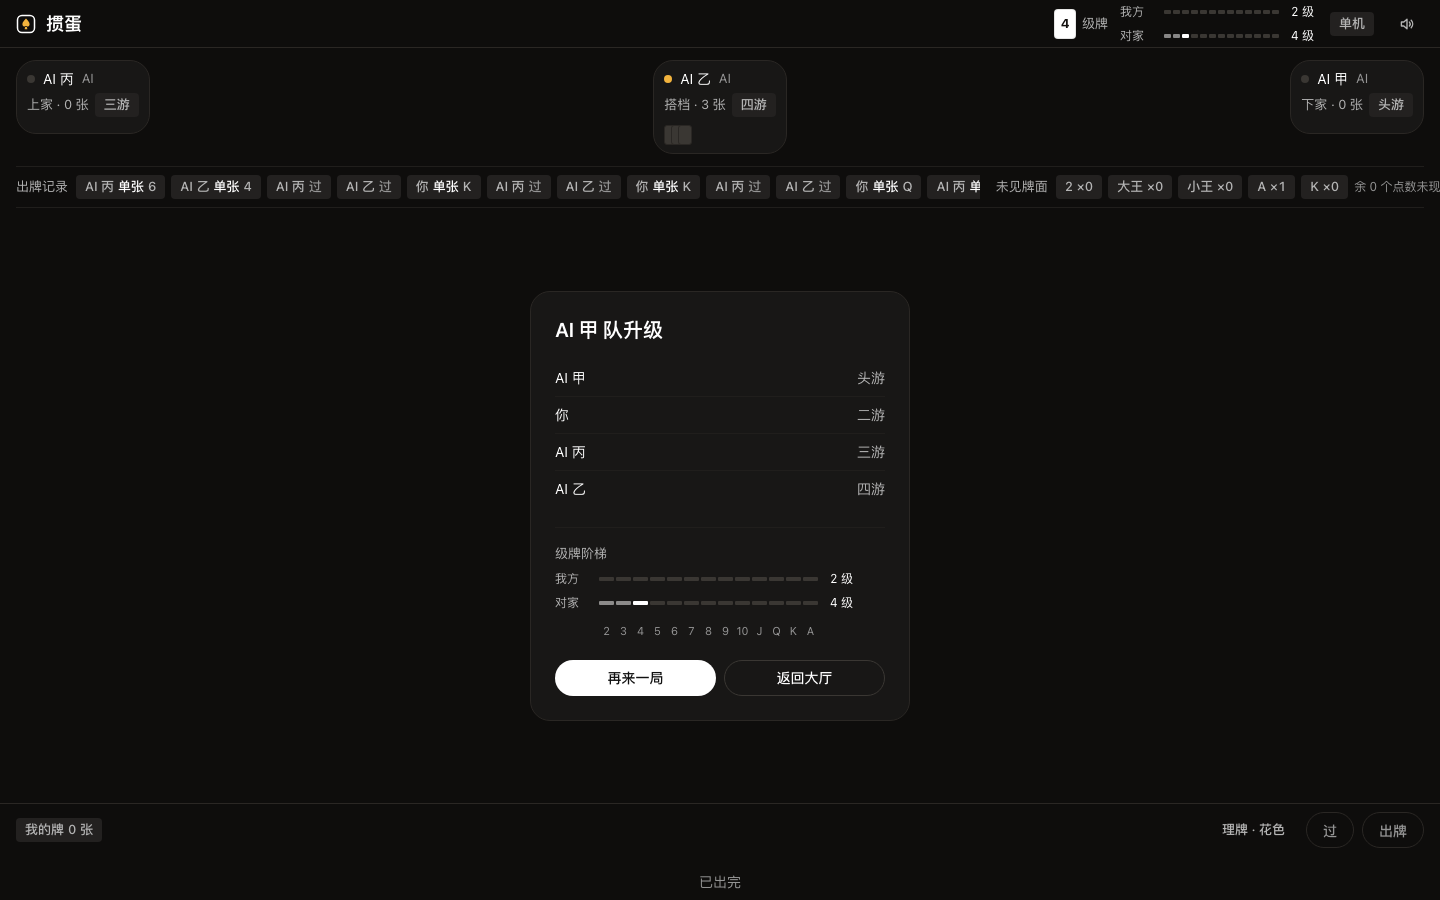
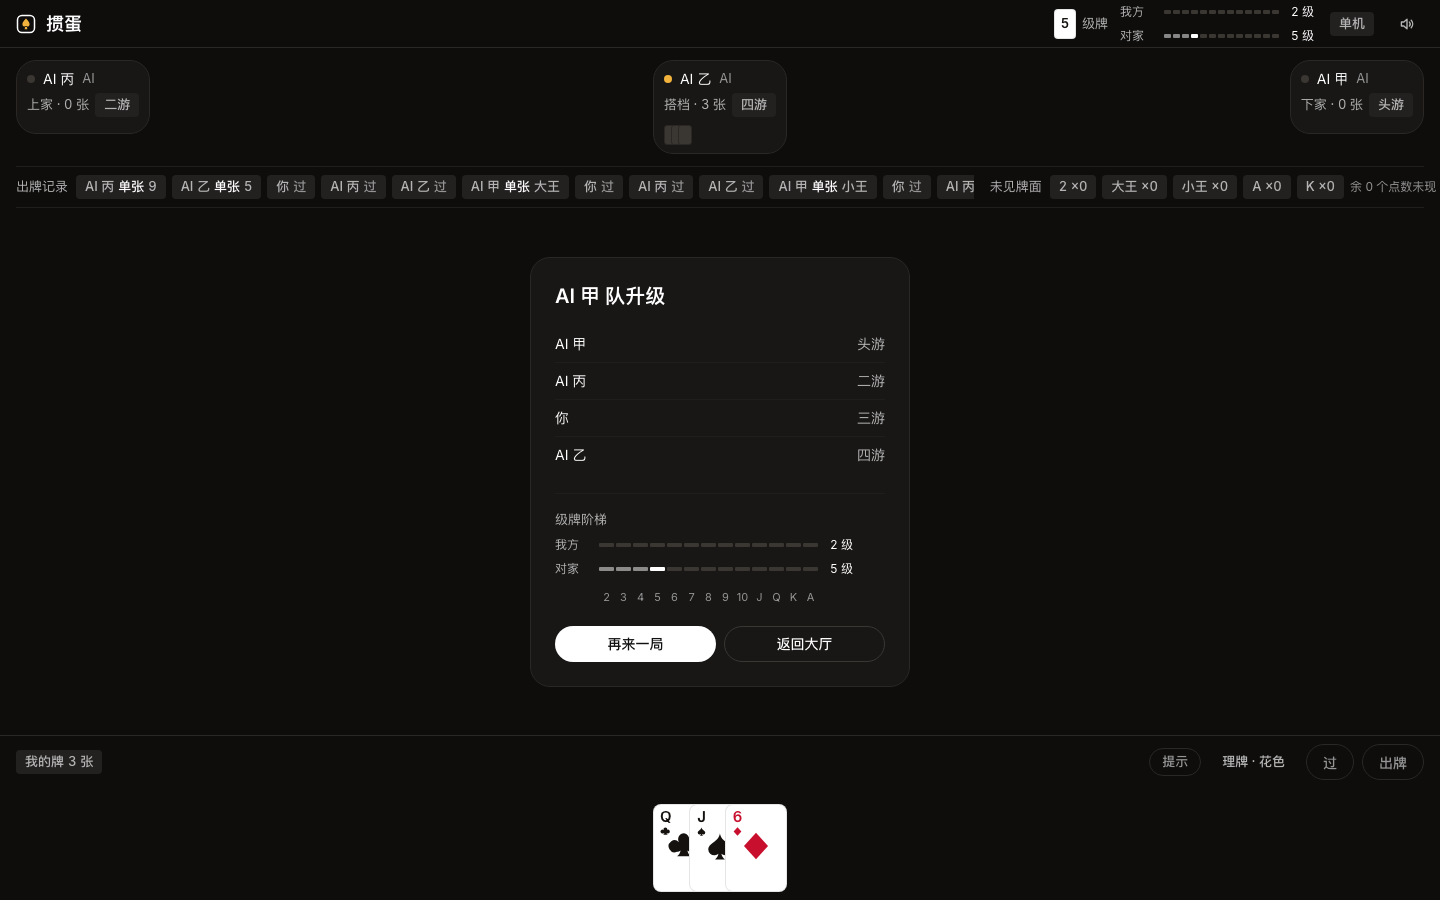
feat(core): AI 代价制策略升级 + 牌桌「提示」
ai.ts 从 20 行占位升级为代价制策略：
- 领出按「牌值 + 牌型偏好 + 拆牌惩罚」取最小代价组合（顺子 > 对子 > 单张，
  保留炸弹/三张/对子结构）
- 跟牌能小压就小压；拆牌代价过高就过；只留炸弹能压且对手还早 → 留炸
- 炸弹只在对手只剩 1-2 张时动；好 2 不赢：单张/一对 2 留到最后

新增 6 条 TDD 用例覆盖以上策略（领出优先对子与顺子、不拆炸弹、
炸弹留后手、好 2 不赢、跟牌不拆炸弹）。

牌桌加「提示」按钮：调用同一套 aiMove 替我选好牌，并给一句建议
（「建议：三张 4」），直接按出牌即可；局面一变提示自动过期。

另加真浏览器验收脚本 scripts/smoke-ui.mjs 与 scripts/smoke-p2p.mjs，
覆盖 理牌切换 / 出牌 / AI 接牌 / 提示 / 双标签页 P2P 同步。

72 tests 全绿，tsc -b、oxlint、build 通过。

diff --git a/src/core/ai.ts b/src/core/ai.ts
@@ -1,20 +1,112 @@
 import { teamOf, legalMoves } from './engine'
 import type { Action, GameState, Seat } from './engine'
+import { ComboType } from './combos'
+import type { Combo } from './combos'
+import type { Card } from './cards'
 
-const Special = { BOMB: 7, SFLUSH: 8, JOKERS: 9 } as const
+const SPECIAL = new Set<number>([ComboType.BOMB, ComboType.SFLUSH, ComboType.JOKERS])
 
+/** 领出时各牌型的偏好：越负越愿意出这张牌。 */
+const LEAD_BONUS: Record<number, number> = {
+  [ComboType.SINGLE]: 40,
+  [ComboType.PAIR]: 10,
+  [ComboType.TRIPLE]: 0,
+  [ComboType.TRIPLE_PAIR]: 5,
+  [ComboType.STRAIGHT]: -10,
+  [ComboType.PAIRS]: 0,
+  [ComboType.PLATE]: 0,
+  [ComboType.BOMB]: 2000,
+  [ComboType.SFLUSH]: 2000,
+  [ComboType.JOKERS]: 5000,
+}
+
+/** 炸弹 / 同花顺 / 天炸在跟牌时的额外代价：默认留着当后手。 */
+const SPECIAL_FOLLOW_COST = 300
+
+/** 手牌里每个点数有几张。 */
+function handShape(hand: Card[]): Map<number, number> {
+  const shape = new Map<number, number>()
+  for (const c of hand) shape.set(c.rank, (shape.get(c.rank) ?? 0) + 1)
+  return shape
+}
+
+/** 拆牌惩罚：拆炸弹最贵，拆三张次之，拆对子最轻。 */
+function breakPenalty(combo: Combo, shape: Map<number, number>): number {
+  const used = new Map<number, number>()
+  for (const c of combo.cards) used.set(c.rank, (used.get(c.rank) ?? 0) + 1)
+  let penalty = 0
+  for (const [rank, n] of used) {
+    const total = shape.get(rank) ?? n
+    if (n >= total) continue
+    if (total >= 4) penalty += 150
+    else if (total === 3) penalty += 30
+    else if (total === 2) penalty += 10
+  }
+  return penalty
+}
+
+/** 打出的牌值多少点——大牌更贵。 */
+function valueOf(cards: Card[]): number {
+  return cards.reduce((sum, c) => sum + c.rank, 0)
+}
+
+function pickCheapest(moves: Combo[], shape: Map<number, number>, lead: boolean): Combo | null {
+  let best: Combo | null = null
+  let bestCost = Infinity
+  for (const m of moves) {
+    const cost =
+      valueOf(m.cards) +
+      (lead ? (LEAD_BONUS[m.type] ?? 0) : SPECIAL.has(m.type) ? SPECIAL_FOLLOW_COST : 0) +
+      breakPenalty(m, shape)
+    if (cost < bestCost || (cost === bestCost && best !== null && m.rank < best.rank)) {
+      best = m
+      bestCost = cost
+    }
+  }
+  return best
+}
+
+/**
+ * AI 走子：
+ * - 领出：代价最小的组合（顺子/对子优先，保留炸弹与三张结构）
+ * - 跟牌：能小压就小压；拆牌代价过高就过
+ * - 炸弹：对手只剩 1-2 张时才动
+ * - 好 2 不赢：单张 2 留到最后
+ */
 export function aiMove(st: GameState, seat: Seat): Action {
   if (st.phase !== 'playing' || st.turn !== seat) return { kind: 'pass', seat }
   const moves = legalMoves(st, seat)
+  if (moves.length === 0) return { kind: 'pass', seat }
+
   const table = st.trick.table
+  const hand = st.players[seat]!.hand
+  const shape = handShape(hand)
+  const mine = teamOf(seat)
+  const oppMin = Math.min(
+    ...st.players.filter((p) => teamOf(p.seat) !== mine).map((p) => p.hand.length),
+  )
+  // 紧急：对手只剩 1-2 张（要抢头游），或我只剩一张（必须打完）
+  const urgent = oppMin <= 2 || hand.length <= 1
+
   if (!table) {
-    return { kind: 'play', seat, cards: moves[0]!.cards.map((c) => c.id) }
+    const best = pickCheapest(moves, shape, true)
+    if (!best) return { kind: 'pass', seat }
+    return { kind: 'play', seat, cards: best.cards.map((c) => c.id) }
   }
-  if (teamOf(table.seat) === teamOf(seat)) {
+
+  // 队友坐庄 → 让他打
+  if (teamOf(table.seat) === mine) return { kind: 'pass', seat }
+
+  const best = pickCheapest(moves, shape, false)
+  if (!best) return { kind: 'pass', seat }
+
+  // 只剩炸弹能压，而对手还早 → 留着当后手
+  if (SPECIAL.has(best.type) && !urgent) return { kind: 'pass', seat }
+
+  // 好 2 不赢：单张 / 一对 2 留到最后打
+  if (!urgent && best.rank === 18 && (best.type === ComboType.SINGLE || best.type === ComboType.PAIR)) {
     return { kind: 'pass', seat }
   }
-  const plain = moves.filter((m) => m.type !== Special.BOMB && m.type !== Special.SFLUSH && m.type !== Special.JOKERS)
-  const choice = plain[0] ?? moves[0]
-  if (!choice) return { kind: 'pass', seat }
-  return { kind: 'play', seat, cards: choice.cards.map((c) => c.id) }
+
+  return { kind: 'play', seat, cards: best.cards.map((c) => c.id) }
 }

diff --git a/src/core/ai.test.ts b/src/core/ai.test.ts
@@ -17,12 +17,71 @@ function scenario(q: { A: string[]; B: string[]; C: string[]; D: string[] }, opt
 }
 
 describe('aiMove 策略', () => {
+  const ranksOf = (st: ReturnType<typeof scenario>['st'], move: ReturnType<typeof aiMove>) =>
+    move.kind === 'play'
+      ? st.players[move.seat]!
+          .hand.filter((c) => move.cards!.includes(c.id))
+          .map((c) => c.rank)
+          .sort((a, b) => a - b)
+      : []
+
   it('领桌时：出最小的单张', () => {
     const { st, fid } = scenario({ A: ['5', '3'], B: ['7'], C: ['6'], D: ['8'] })
     const move = aiMove(st, 0)
     expect(move.kind).toBe('play')
     if (move.kind === 'play') expect(move.cards).toEqual([fid('3')])
   })
+
+  it('领出优先出对子，而不是打散的单张', () => {
+    const { st } = scenario({ A: ['5', '5', '3'], B: ['7'], C: ['6'], D: ['8'] })
+    expect(ranksOf(st, aiMove(st, 0))).toEqual([5, 5])
+  })
+
+  it('领出优先出顺子（5 张一手，代价最低）', () => {
+    const { st } = scenario({ A: ['3♠', '4♥', '5♣', '6♦', '7♠', '2♠'], B: ['9'], C: ['6'], D: ['8'] })
+    expect(ranksOf(st, aiMove(st, 0))).toEqual([3, 4, 5, 6, 7])
+  })
+
+  it('领出不拆炸弹', () => {
+    const { st } = scenario({ A: ['7', '7', '7', '7', '3'], B: ['9'], C: ['6'], D: ['8'] })
+    expect(ranksOf(st, aiMove(st, 0))).toEqual([3])
+  })
+
+  it('跟牌也不拆炸弹：只留炸弹能压时改出单张', () => {
+    // 对手出了 9，我有 4 张 7 与一张 3：拆炸弹的代价高于过牌
+    const { st, fid } = scenario(
+      { A: ['3'], B: ['4', '4', '4', '4'], C: ['7', '7', '7', '7', '3'], D: ['9', '9', '9', '9'] },
+      { firstLeader: 3 },
+    )
+    let s = step(st, { kind: 'play', seat: 3, cards: [fid('9')] })
+    s = step(s, { kind: 'pass', seat: 0 })
+    s = step(s, { kind: 'pass', seat: 1 })
+    const move = aiMove(s, 2)
+    expect(move.kind).toBe('pass')
+  })
+
+  it('对手只剩 1-2 张 → 果断用炸弹', () => {
+    const { st, fid } = scenario({ A: ['3'], B: ['4'], C: ['8', '8', '8', '8', '7'], D: ['K', '9'] }, { firstLeader: 3 })
+    let s = step(st, { kind: 'play', seat: 3, cards: [fid('K')] })
+    s = step(s, { kind: 'pass', seat: 0 })
+    s = step(s, { kind: 'pass', seat: 1 })
+    const move = aiMove(s, 2)
+    expect(move.kind).toBe('play')
+    if (move.kind === 'play') expect(move.cards!.length).toBe(4)
+  })
+
+  it('好 2 不赢：单张 2 留着不打（对手还远时过牌）', () => {
+    const { st, fid } = scenario(
+      { A: ['3'], B: ['4', '4', '4', '4'], C: ['2', '5'], D: ['K', '9', '9', '9'] },
+      { firstLeader: 3 },
+    )
+    let s = step(st, { kind: 'play', seat: 3, cards: [fid('K')] })
+    s = step(s, { kind: 'pass', seat: 0 })
+    s = step(s, { kind: 'pass', seat: 1 })
+    const move = aiMove(s, 2)
+    expect(move.kind).toBe('pass')
+  })
+
   it('队友坐庄 → 主动过，不压队友', () => {
     const { st, fid } = scenario({ A: ['3'], B: ['4'], C: ['5'], D: ['6'] })
     // A 头游领出 3 后，B 过、C 的回合：桌面庄家是队友 A → C 应过

diff --git a/src/ui/Table.tsx b/src/ui/Table.tsx
@@ -8,6 +8,7 @@ import { identify, beats } from '../core/combos'
 import { RANK_LABEL, cardIdToRank, levelToRank, sortBySuitGroups } from '../core/cards'
 import type { GameState, Seat } from '../core/engine'
 import { teamOf } from '../core/engine'
+import { aiMove } from '../core/ai'
 import { isMuted, playSound, toggleMute } from './sound'
 
 const COMBO_LABEL: Record<number, string> = {
@@ -143,6 +144,7 @@ export function Table() {
   const roomCode = useStore((s) => s.roomCode)
   const [selected, setSelected] = useState<Set<string>>(new Set())
   const [handMode, setHandMode] = useState<'rank' | 'suit'>('rank')
+  const [hint, setHint] = useState<string | null>(null)
   const [fx, setFx] = useState<0 | 7 | 9>(0)
   const [mute, setMute] = useState(isMuted())
 
@@ -189,6 +191,27 @@ export function Table() {
     dispatch({ kind: 'pass', seat: mySeat })
     setSelected(new Set())
   }
+
+  /** 提示：用 AI 的走法替我选好牌，直接按「出牌」即可。 */
+  const askHint = () => {
+    if (!myTurn) return
+    const mv = aiMove(st, mySeat)
+    if (mv.kind === 'pass') {
+      setSelected(new Set())
+      setHint('建议过牌')
+      return
+    }
+    const ids = mv.cards ?? []
+    const cards = me.hand.filter((c) => ids.includes(c.id))
+    const combo = identify(cards)
+    setSelected(new Set(ids))
+    setHint(combo ? `建议：${COMBO_LABEL[combo.type] ?? ''} ${RANK_LABEL[combo.rank] ?? ''}`.trim() : '建议出牌')
+  }
+
+  // 局面一变，提示就过期
+  useEffect(() => {
+    setHint(null)
+  }, [st.log.length, st.turn])
 
   const lastLog = st.log[st.log.length - 1]
   useEffect(() => {
@@ -307,8 +330,18 @@ export function Table() {
           {myTurn && (
             <span className="chip bg-accent/15 text-accent">{table ? '轮到你' : '轮到你领出'}</span>
           )}
+          {hint ? <span className="text-[13px] text-accent">{hint}</span> : null}
 
           <div className="ml-auto flex items-center gap-2">
+            <button
+              className="btn btn-ghost btn-sm"
+              onClick={askHint}
+              disabled={!myTurn}
+              title="按 AI 的走法替你选好牌"
+              data-testid="hint"
+            >
+              提示
+            </button>
             <button
               className="btn btn-ghost btn-sm"
               onClick={() => setHandMode((m) => (m === 'rank' ? 'suit' : 'rank'))}

diff --git a/ralph/LOG.md b/ralph/LOG.md
@@ -39,3 +39,13 @@
 - 新增 ?solo=1 直达牌桌（分享单机局 / 验收截图用）、window.__gdAi 调试钩子（验收脚本驱动 AI 打完一局）。
 - 66 tests 全绿、tsc -b 零错、oxlint 零错、bun run build 通过。
 
+## S8 AI 升级 + 提示 done
+- ai.ts 从 20 行占位升级为代价制策略：领出按「牌值 + 牌型偏好 + 拆牌惩罚」选最小代价组合
+  （顺子 > 对子 > 单张，保留炸弹/三张/对子结构），跟牌能小压就小压、拆牌太贵就过。
+- 新规则（TDD，6 条新用例）：不拆炸弹；炸弹留到对手只剩 1-2 张；好 2 不赢（单张/一对 2 留最后）；
+  领出优先对子与顺子；只有炸弹能压且对手还早 → 过牌。
+- 牌桌加「提示」按钮：调用同一套 aiMove 替我选好牌并给出一句建议（「建议：三张 4」），直接按出牌即可。
+- P2P 回归：双标签页实测建房→链接进房→AI 补位→开局→双方出牌同步（scripts/smoke-p2p.mjs）。
+- 72 tests 全绿；真浏览器冒烟 scripts/smoke-ui.mjs 覆盖 理牌/出牌/AI 接牌/提示。
+
+

diff --git a/docs/superpowers/specs/2026-10-21-ui-restyle.md b/docs/superpowers/specs/2026-10-21-ui-restyle.md
@@ -55,7 +55,7 @@
   右 = 记牌器「未见牌面」（每个已出现过的点数还可能剩几张 + “余 N 个点数未现”）。
 - **中央牌区**：本轮出的牌（真实牌面小卡）+ 一行说明「对家 · 炸弹」；空时显示「等待X领出」。
 - **我的手牌**：白牌一排（按可用宽度收紧重叠，27 张不撑破页面），选中上抬 8px 并压琥珀描边，压不过的牌降到 40% 不透明度。
-  顶部操作条：**出牌**（反色主按钮）/ **过**（描边）/ **理牌**（点数 ⇄ 花色）。
+  顶部操作条：**提示**（用 AI 走法替我选牌并给一句建议）/ **理牌**（点数 ⇄ 花色）/ **出牌**（反色主按钮）/ **过**（描边）。
 - **炸弹特效**：纯黑横带 + 琥珀大字「炸弹」「天炸」，无渐变、无光晕。
 
 ### 大厅（Lobby）
